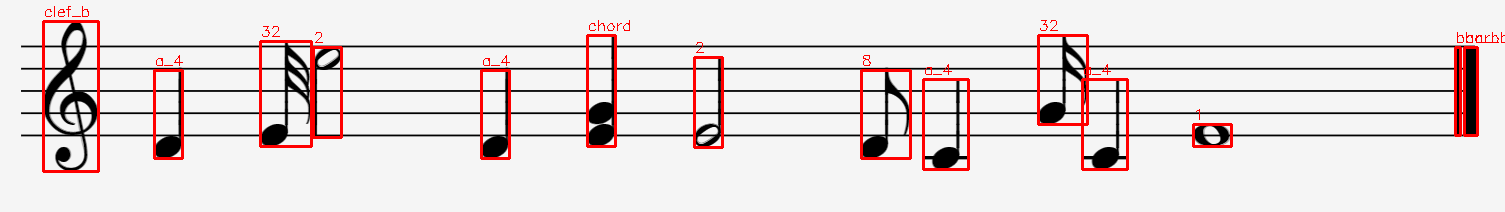
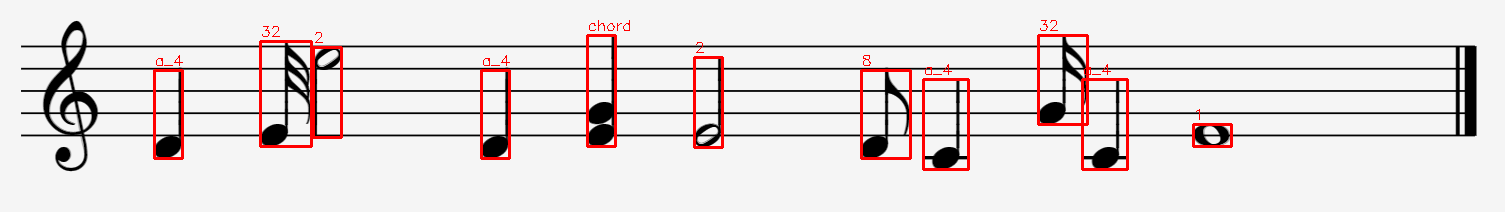
在可视化函数中添加音符类型过滤，以提高识别准确性

Changed region(s): [[0.9681, 0.1415, 1.0, 0.6509], [0.0312, 0.0283, 0.0625, 0.1132], [0.0312, 0.7925, 0.0625, 0.8208]]

diff --git a/src/main.py b/src/main.py
@@ -203,6 +203,10 @@ def recognize(out_file, most_common, coord_imgs, imgs_with_staff, imgs_spacing, 
 
 
 def visualize(original_img, segmentation_offsets, most_common, coord_imgs, imgs_with_staff, imgs_spacing, imgs_rows):
+    note_types = ['4', '8', '8_b_n', '8_b_r', '16', '16_b_n', '16_b_r',
+                  '32', '32_b_n', '32_b_r', 'a_4', 'a_8', 'a_16', 'a_32',
+                  '2', 'a_2', '1', 'a_1', 'chord']
+
     disk_size = most_common / 4
 
     if original_img.ndim == 2:
@@ -230,6 +234,9 @@ def visualize(original_img, segmentation_offsets, most_common, coord_imgs, imgs_
             saved_img = (255 * (1 - prim)).astype(np.uint8)
             labels = predict(saved_img)
             label = labels[0]
+
+            if label not in note_types:
+                continue
 
             minr, minc, maxr, maxc = boundary[j]
 
